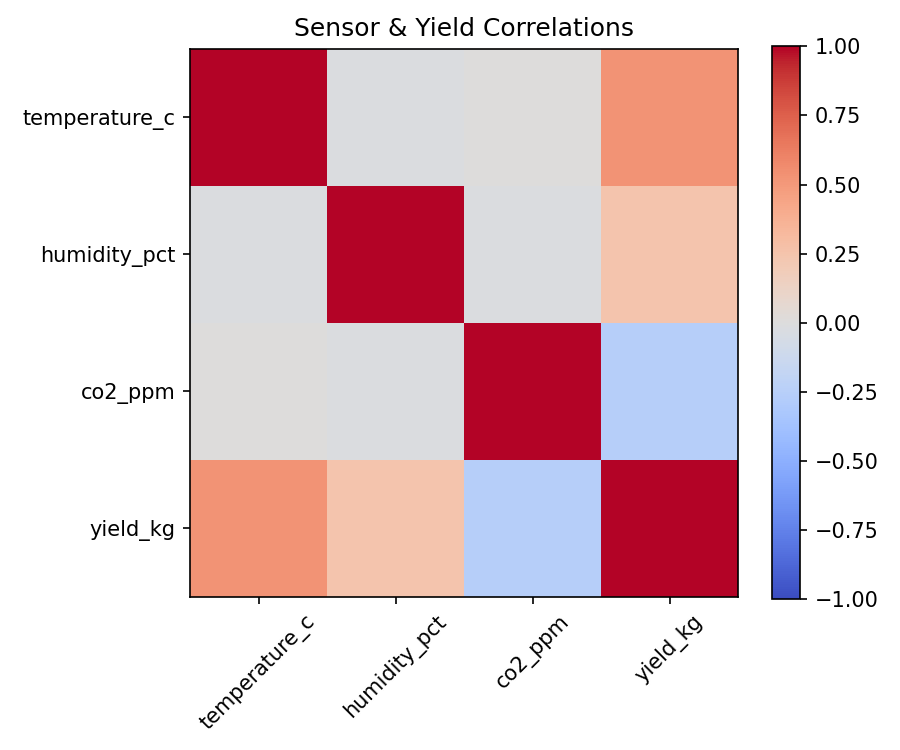
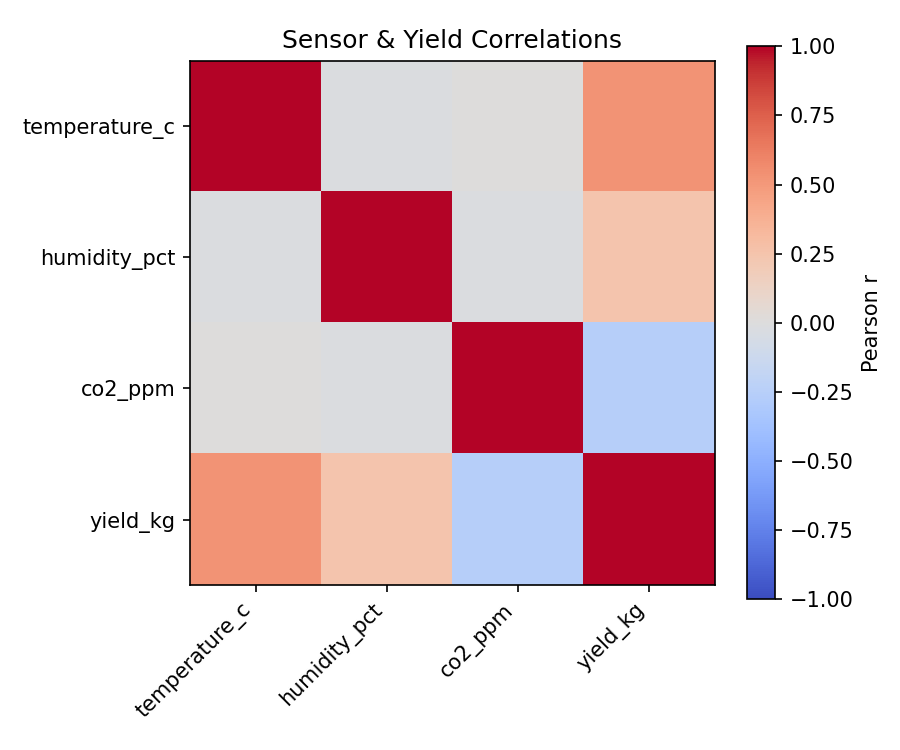
Day 10: train test split, scaling and saved datasets

diff --git a/src/eda_plots.py b/src/eda_plots.py
@@ -1,115 +1,24 @@
 import pandas as pd
 import matplotlib.pyplot as plt
-from pathlib import Path
 
-Path("reports/figures").mkdir(
-    parents=True,
-    exist_ok=True
-)
+df = pd.read_parquet("data/interim/02_cleaned.parquet")
+features = ["temperature_c", "humidity_pct", "co2_ppm", "yield_kg"]
 
-# Load cleaned data
-df = pd.read_parquet(
-    "data/proccessed/02_cleaned.parquet"
-)
-
-# Check available columns
-print("Columns:")
-print(df.columns.tolist())
-
-features = [
-    "temperature_c",
-    "humidity_pct",
-    "co2_ppm",
-    "yield_kg"
-]
-
-corr = df[features].corr()
-
-fig, ax = plt.subplots(figsize=(6,5))
-
-im = ax.imshow(
-    corr,
-    cmap="coolwarm",
-    vmin=-1,
-    vmax=1
-)
-
-ax.set_xticks(range(len(features)))
-ax.set_xticklabels(features, rotation=45)
-
-ax.set_yticks(range(len(features)))
-ax.set_yticklabels(features)
-
-fig.colorbar(im, ax=ax)
-
+fig, ax = plt.subplots(figsize=(6, 5))
+im = ax.imshow(df[features].corr(), cmap="coolwarm", vmin=-1, vmax=1)
+ax.set_xticks(range(len(features)), features, rotation=45, ha="right")
+ax.set_yticks(range(len(features)), features)
+fig.colorbar(im, ax=ax, label="Pearson r")
 ax.set_title("Sensor & Yield Correlations")
-
 plt.tight_layout()
+plt.savefig("reports/figures/corr_heatmap.png", dpi=150)
 
-plt.savefig(
-    "reports/figures/corr_heatmap.png",
-    dpi=150
-)
-
-
-plt.figure(figsize=(6,4))
-
-plt.scatter(
-    df["humidity_pct"],
-    df["yield_kg"],
-    alpha=0.5
-)
-
-plt.xlabel("Humidity (%)")
-plt.ylabel("Yield (kg)")
-plt.title("Humidity vs Yield")
-
+fig, axes = plt.subplots(1, 3, figsize=(12, 4))
+axes[0].scatter(df["humidity_pct"], df["yield_kg"], alpha=0.5, s=15)
+axes[0].set(xlabel="Humidity (%)", ylabel="Yield (kg)")
+axes[1].scatter(df["temperature_c"], df["yield_kg"], alpha=0.5, s=15)
+axes[1].set(xlabel="Temperature (°C)", ylabel="Yield (kg)")
+axes[2].scatter(df["co2_ppm"], df["yield_kg"], alpha=0.5, s=15)
+axes[2].set(xlabel="CO₂ (ppm)", ylabel="Yield (kg)")
 plt.tight_layout()
-
-plt.savefig(
-    "reports/figures/humidity_vs_yield.png",
-    dpi=150
-)
-
-plt.figure(figsize=(6,4))
-
-plt.scatter(
-    df["temperature_c"],
-    df["yield_kg"],
-    alpha=0.5
-)
-
-plt.xlabel("Temperature (°C)")
-plt.ylabel("Yield (kg)")
-plt.title("Temperature vs Yield")
-
-plt.tight_layout()
-
-plt.savefig(
-    "reports/figures/temperature_vs_yield.png",
-    dpi=150
-)
-
-
-plt.figure(figsize=(6,4))
-
-plt.scatter(
-    df["co2_ppm"],
-    df["yield_kg"],
-    alpha=0.5
-)
-
-plt.xlabel("CO₂ (ppm)")
-plt.ylabel("Yield (kg)")
-plt.title("CO₂ vs Yield")
-
-plt.tight_layout()
-
-plt.savefig(
-    "reports/figures/co2_vs_yield.png",
-    dpi=150
-)
-
-
-
-
+plt.savefig("reports/figures/scatter_yield.png", dpi=150)

diff --git a/src/features/train_test_split.py b/src/features/train_test_split.py
@@ -1,0 +1,27 @@
+import pandas as pd
+from sklearn.preprocessing import MinMaxScaler
+import joblib
+
+df = pd.read_parquet("data/interim/02_cleaned.parquet").sort_values("timestamp")
+feature_cols = ["temperature_c", "humidity_pct", "co2_ppm"]
+
+split_idx = int(len(df) * 0.8)
+train, test = df.iloc[:split_idx], df.iloc[split_idx:]
+
+scaler = MinMaxScaler()
+X_train = scaler.fit_transform(train[feature_cols])
+X_test = scaler.transform(test[feature_cols])
+y_train = train["yield_kg"].values
+y_test = test["yield_kg"].values
+
+joblib.dump(scaler, "models/minmax_scaler_train.joblib")
+
+import numpy as np
+
+np.save("data/proccessed/X_train.npy", X_train)
+np.save("data/proccessed/X_test.npy", X_test)
+np.save("data/proccessed/y_train.npy", y_train)
+np.save("data/proccessed/y_test.npy", y_test)
+
+print(f"Train: {train['timestamp'].min()} → {train['timestamp'].max()}")
+print(f"Test:  {test['timestamp'].min()} → {test['timestamp'].max()}")

diff --git a/src/ingest.py b/src/ingest.py
@@ -20,5 +20,7 @@ df = pd.read_csv(
 print(df.shape)
 print(df.dtypes)
 print(df.head())
+print(df.tail())
+
 
 df.to_parquet(INTERIM / "01_loaded.parquet", index=False)

diff --git a/README.md b/README.md
@@ -153,3 +153,65 @@ models/minmax_scaler.joblib
 Note: For learning purposes, the scaler was fitted on the full cleaned dataset. In a production pipeline, scaling should be fitted only on training data to prevent data leakage.
 
 
+## Train/Test Split & Data Leakage Prevention
+
+### Overview
+
+A chronological train/test split was performed to preserve the temporal nature of the mushroom yield dataset. This prevents future observations from influencing model training and provides a realistic evaluation of forecasting performance.
+
+### Method
+
+* Dataset sorted by `timestamp`
+* Split ratio: 80% Training, 20% Testing
+* Features:
+
+  * temperature_c
+  * humidity_pct
+  * co2_ppm
+* Target:
+
+  * yield_kg
+
+### Scaling
+
+Min-Max scaling was applied to the feature variables.
+
+To prevent data leakage:
+
+* The scaler was fitted only on the training dataset.
+* The same scaler was then used to transform the test dataset.
+* The trained scaler was saved as:
+
+`models/minmax_scaler_train.joblib`
+
+### Saved Artifacts
+
+Training and testing datasets were saved for downstream model training:
+
+* `data/proccessed/X_train.npy`
+* `data/proccessed/X_test.npy`
+* `data/proccessed/y_train.npy`
+* `data/proccessed/y_test.npy`
+
+### Train/Test Date Ranges
+
+Training Window:
+
+* Start: [Replace with output from script]
+* End: [Replace with output from script]
+
+Testing Window:
+
+* Start: [Replace with output from script]
+* End: [Replace with output from script]
+
+### Data Leakage Prevention
+
+The following practices were used to prevent data leakage:
+
+1. Chronological splitting was performed before model training.
+2. Future observations were never used during training.
+3. The scaler was fitted only on training data.
+4. The test set remained isolated for final model evaluation.
+
+